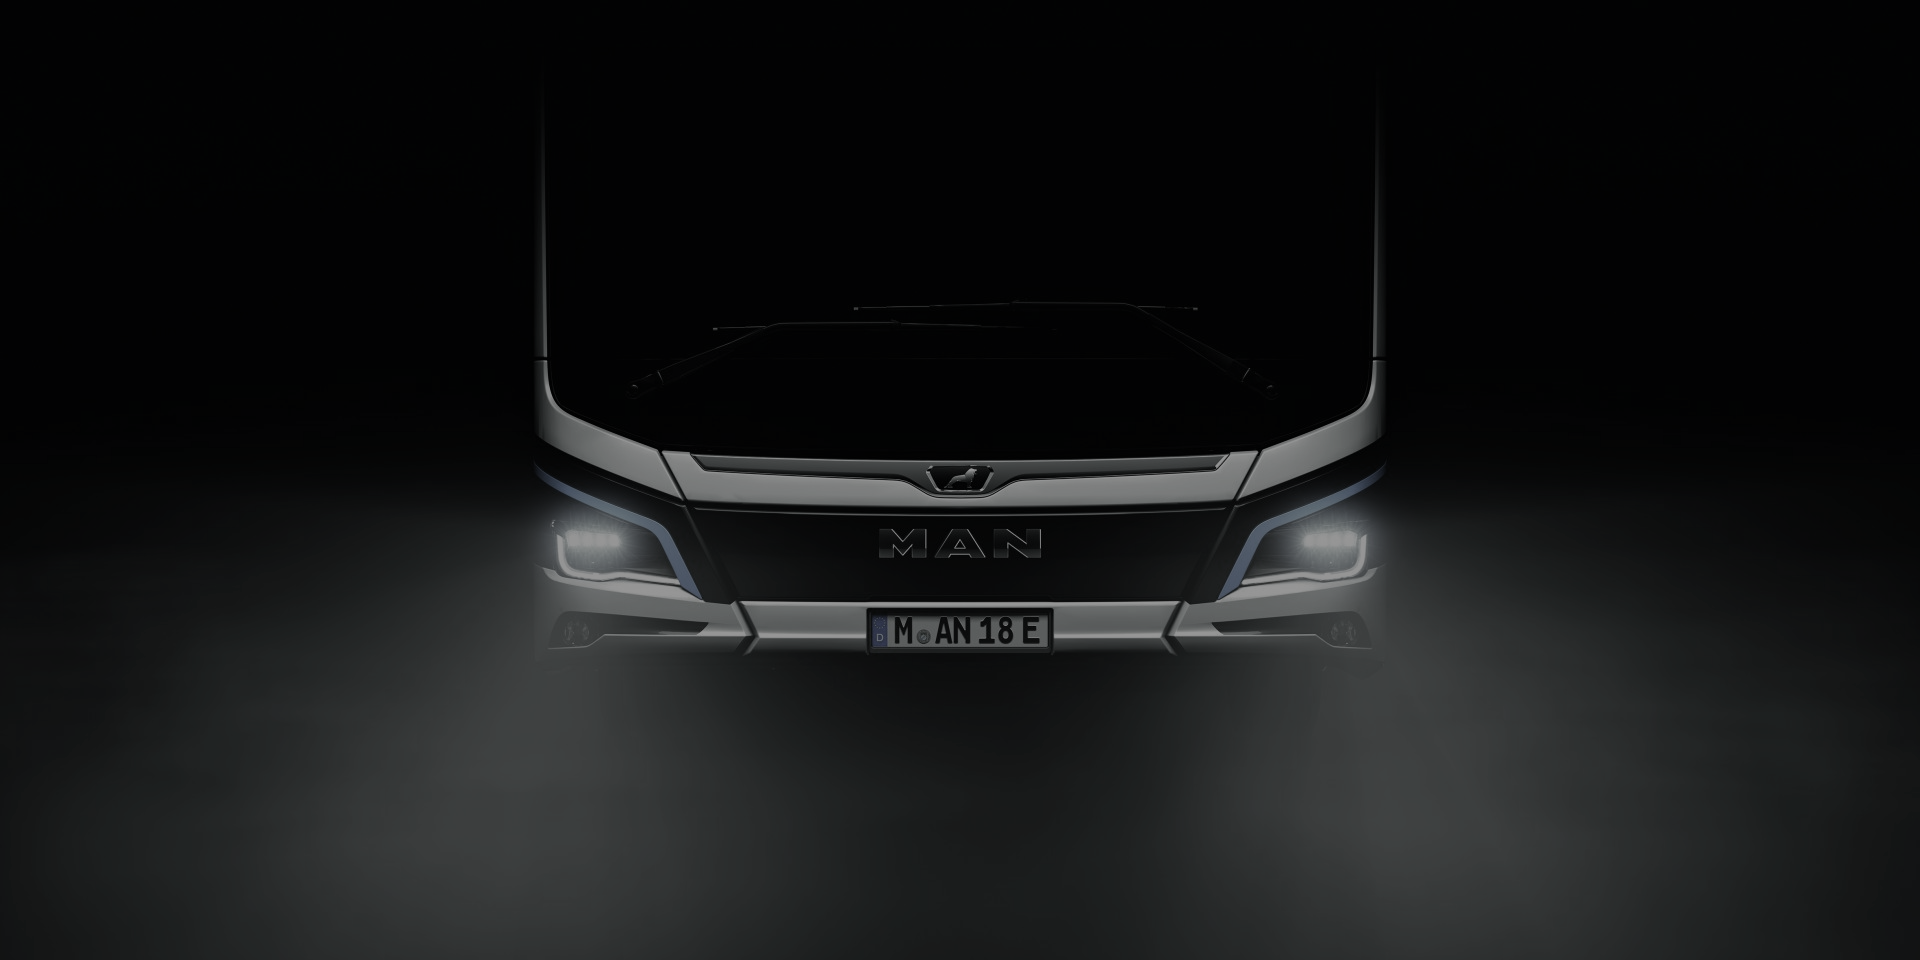
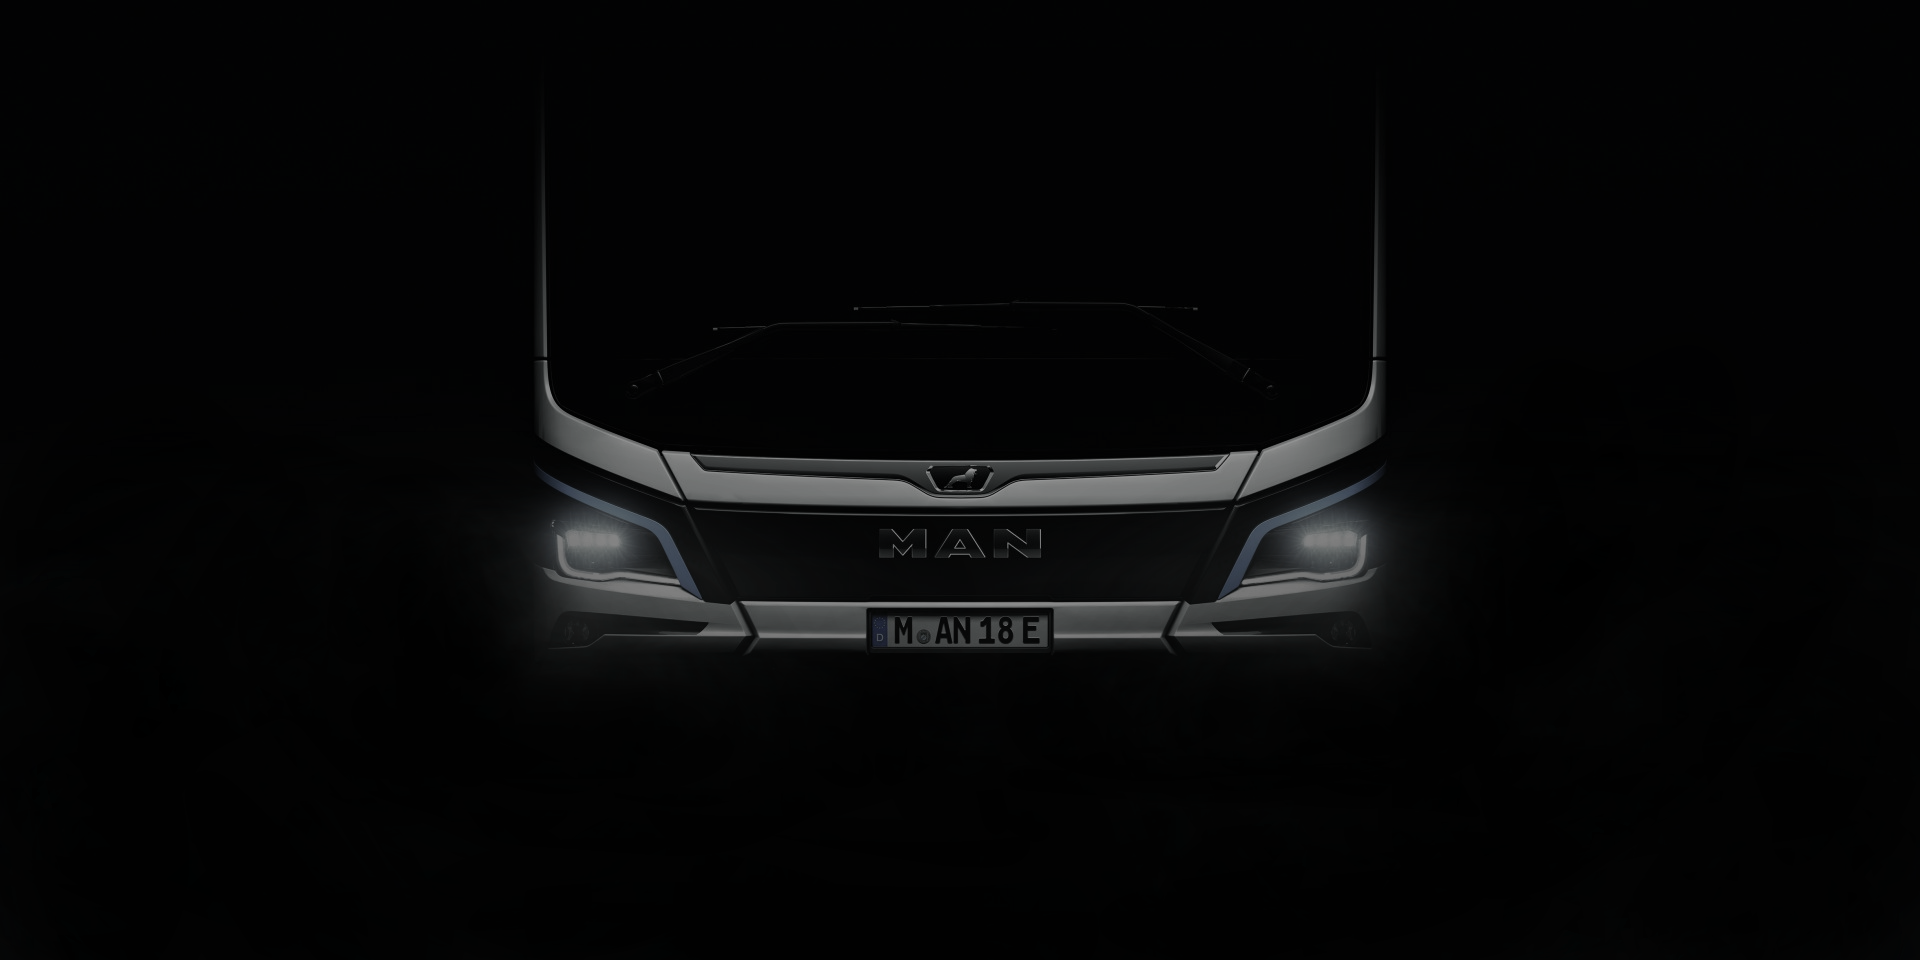
changed background image and made gaps responsive

diff --git a/style.css b/style.css
@@ -82,6 +82,34 @@ ul {
     user-select: none; /* Standard syntax */
 }
 
+nav a {
+    text-decoration: none;
+    color: white;
+
+    display: inline-block;
+    position: relative;
+    color: snow;
+}
+
+nav a::after{
+    margin-top: 5vh;
+    content: "";
+    position: absolute;
+    width: 100%;
+    transform: scaleX(0);
+    height: 0.10vw;
+    left: 0;
+    bottom: 0;
+    background-color: snow;
+    transform-origin: bottom right;
+    transition: transform 0.25s ease-out;
+}
+
+nav a:hover::after{
+    margin-top: 5vh;
+    transform: scaleX(1);
+    transform-origin: bottom left;
+}
 
 #backgroundimg {
     position: absolute;
@@ -91,6 +119,7 @@ ul {
     height: 100vh;
     width: 100vw;
     object-fit: cover;
+    
 }
 
 main * {
@@ -194,10 +223,7 @@ article {
     border-radius: 20px;
 }
 
-a {
-    text-decoration: none;
-    color: white;
-}
+
 
 table td,
 th {
@@ -241,10 +267,9 @@ table tr {
 
 #aboutme img {
     width: 30vw;
-    height: 100%;
+    height: fit-content;
     flex-basis: 30%;
-    border-top-left-radius: 20px;
-    border-bottom-left-radius: 20px;
+    border-radius: 20px;
 }
 
 #aboutme div {
@@ -254,6 +279,7 @@ table tr {
     justify-content: space-between;
     background-color: #DEE8F4;
     width: 70vw;
+    height: fit-content;
     font-size: 2vw;
     flex-wrap: nowrap;
     color: #2F343F;

diff --git a/gallery.css b/gallery.css
@@ -44,12 +44,13 @@ header a{
 }
 
 main{
+    margin-top: 2vw;
     background-color: #2D2D2D;
     display: flex;
     min-height: 100vh;
     justify-content: space-evenly;
     flex-wrap: wrap;
-    gap: 20px;
+    gap: 10vw;
     padding-bottom: 20px;
 }
 
